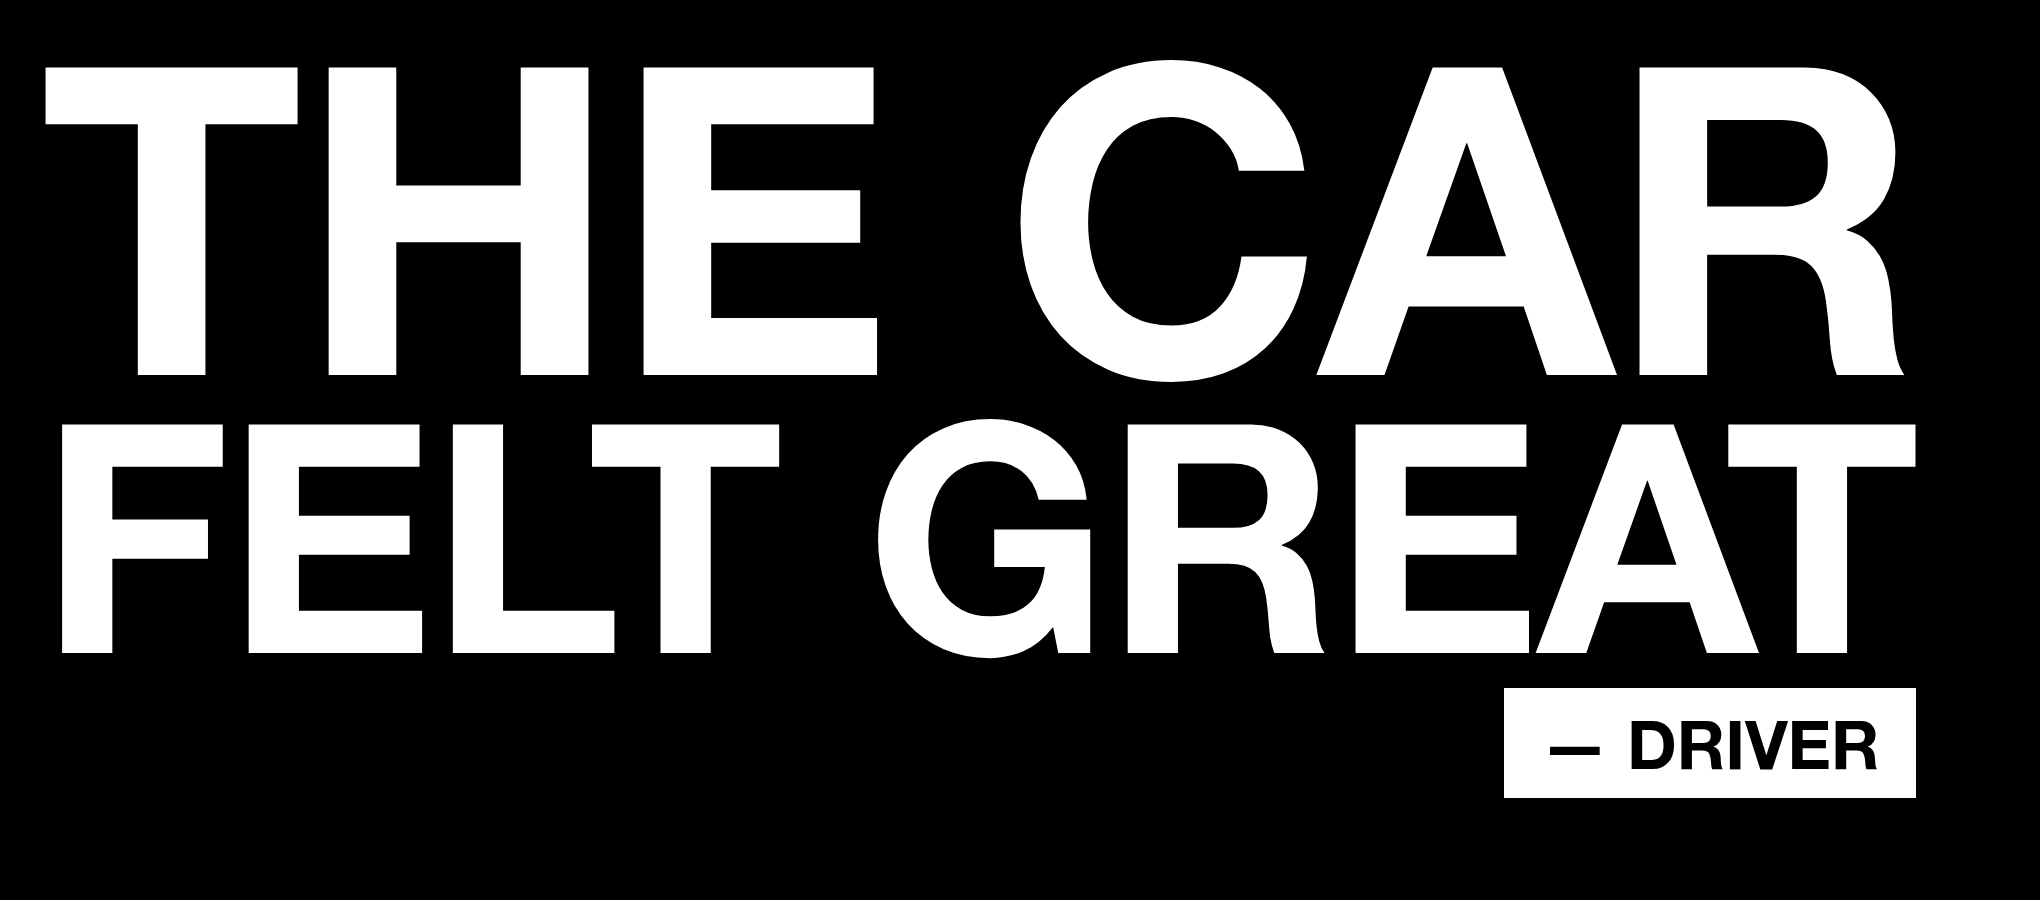
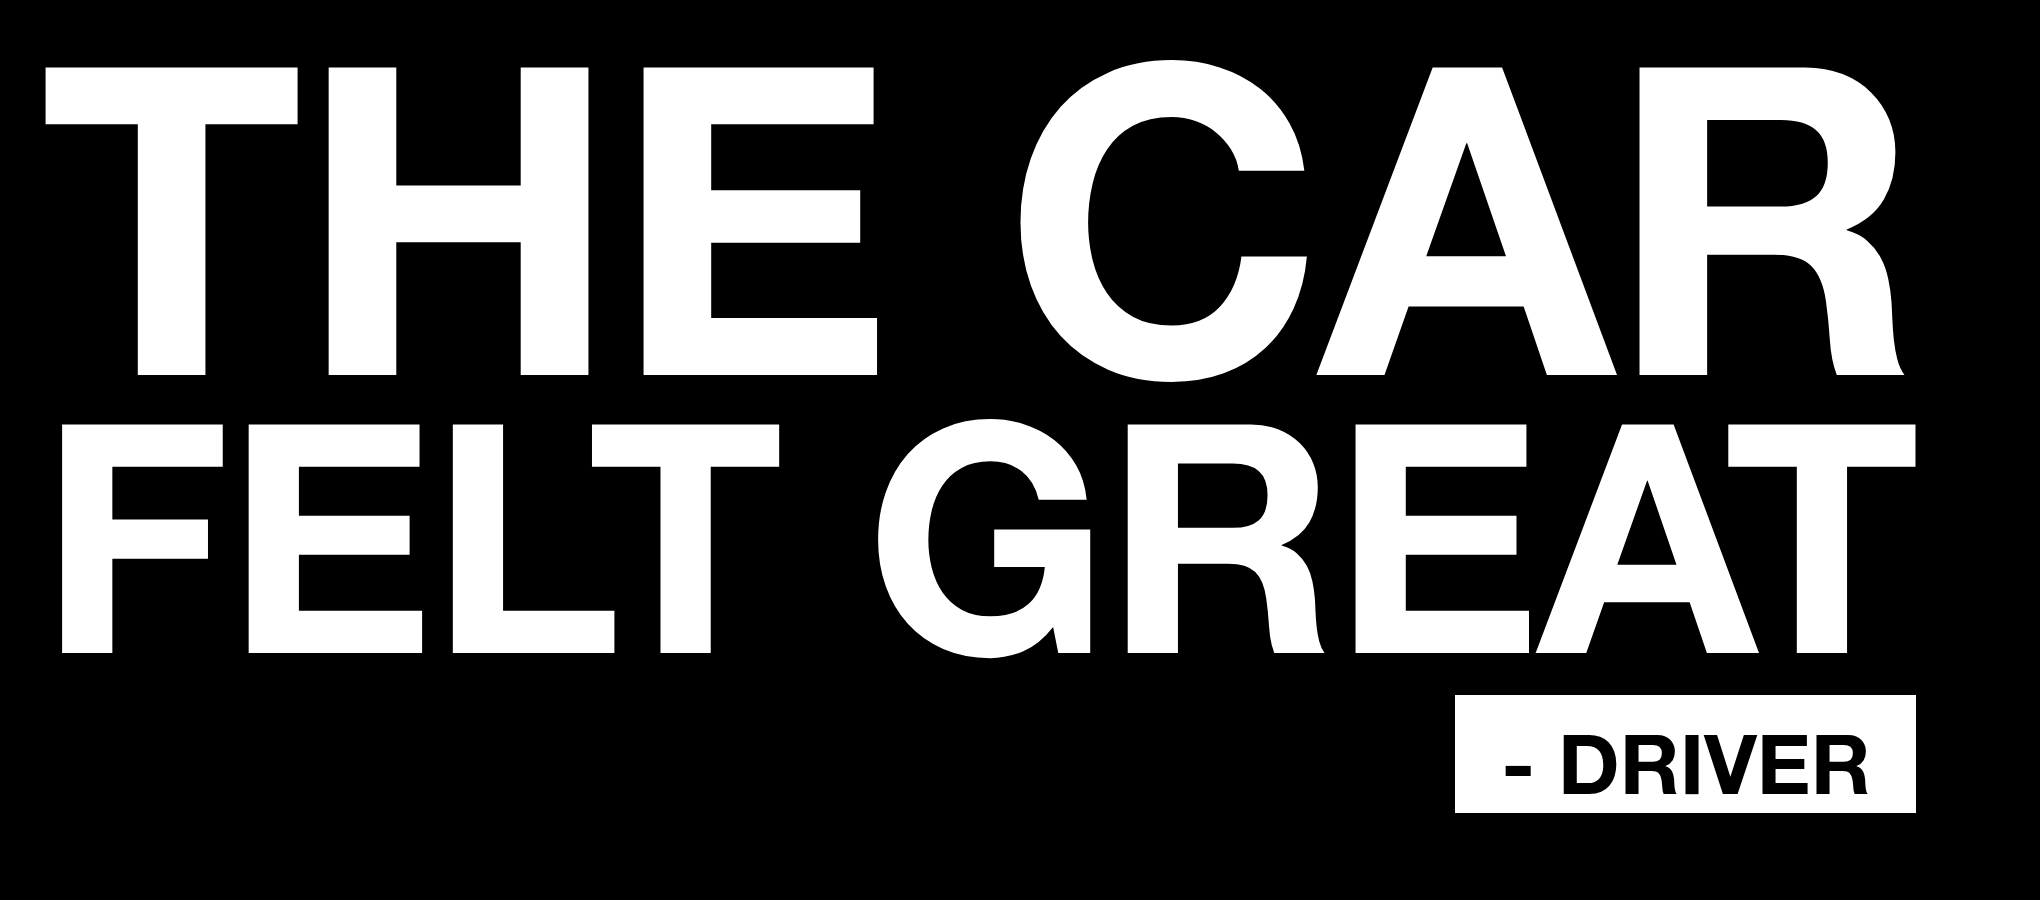
Solve the tee print from a 12in target and assert it at render time
/impeccable critique caught the first pass: both lockup rows measured 387
stage units against a 320-unit container, the print sat 33 units right of
the shirt centreline, and the attribution aligned to the container edge
instead of the ink, so the tee mockup and the print preview disagreed.

The punch line is now sized until its measured ink is 300 units (12in on
the template's 19in chest), the setup line matched to it, and render.mjs
re-reads the geometry from the DOM and fails unless rows, width and centre
are within 1 unit. Print moved up to ~3.75in below the collar rib, the
attribution uses a plain hyphen per the Brains note and the house rule,
and its size floor rose to 0.26 of the punch. Blank drawing: neck opening
shows inside-back fabric, body tapers, sleeve hems curve, knit rides over
the ink. Critique snapshot under .impeccable/critique/.

Claude-Session: https://claude.ai/code/session_019tmHrDHQ6vYCtp1fHTagqX

Changed region(s): [[0.7103, 0.7467, 0.9574, 0.9022]]

diff --git a/packages/merch/car-felt-great/mockup.html b/packages/merch/car-felt-great/mockup.html
@@ -45,16 +45,19 @@
     transform-origin: top left;
   }
   .stage > svg { position: absolute; inset: 0; width: 100%; height: 100%; display: block; }
+  .stage > svg.over-ink { pointer-events: none; }
 
   /* ---- the print ---- */
   /* Chest placement. The shirt body runs 262 -> 738 in stage units at the
-     armpit line, so a 320 unit print is ~67% of the body: a big front print
-     (roughly 12in on a 19in chest), not a chest pocket. */
+     armpit line (476 units, taken as a 19in flat chest, so 25 units/in). The
+     print is sized by fit() to --print-width, 300 units = 12in, the width of a
+     standard full-front platen. Nothing here is hand-picked: the punch size is
+     solved from the target width and the render asserts the result. */
   .art {
     position: absolute;
     left: 500px;
-    top: 335px;
-    width: 320px;
+    top: 262px;                 /* ink top lands ~3.75in below the collar rib (rib bottom y=168, 25 units/in) */
+    width: fit-content;         /* the container IS the ink, so flex-end tracks the text edge */
     transform: translateX(-50%);
     display: flex;
     flex-direction: column;
@@ -72,8 +75,8 @@
   }
   .tier.setup { color: var(--white); }
   .tier.punch { color: var(--accent); margin-top: 0.06em; }
-  .punch { font-size: var(--punch-size); }
-  .setup { font-size: var(--punch-size); } /* overwritten by fit() to match the punch width */
+  .punch { font-size: var(--punch-size); } /* overwritten by fit(): solved from --print-width */
+  .setup { font-size: var(--punch-size); } /* overwritten by fit(): matched to the punch width */
 
   /* attribution = the punchline, small, in the corner-label idiom: a white box on a
      dark ground, all caps, 0.32em 0.55em padding, square corners. Right-anchored,
@@ -84,7 +87,7 @@
     align-items: stretch;
     line-height: 1;
     margin-top: 0.42em;
-    font-size: calc(var(--punch-size) * 0.21);
+    font-size: calc(var(--punch-size) * 0.26); /* small, as briefed, but not below ~12mm caps on a 12in print */
   }
   .attrib .cl-box {
     font-family: "Helvetica Neue", Helvetica, Arial, sans-serif;
@@ -102,6 +105,7 @@
   /* ---- artwork view: just the print, transparent ground ---- */
   body.artwork { background: var(--garment); } /* the print previewed on the garment colour it ships on */
   body.artwork .stage { display: none; }
+  body.artwork .over-ink { display: none; }
   body.artwork .art-only {
     position: absolute; left: 0; top: 0;
     padding: 40px;
@@ -151,23 +155,24 @@
           M392,92
           C 330,100 250,118 195,135
           C 142,198 88,268 48,335
-          L 150,400
+          Q 96,378 150,400
           C 186,378 226,361 262,352
-          C 259,560 252,760 248,940
-          L 752,940
-          C 748,760 741,560 738,352
+          C 262,560 258,760 256,940
+          L 744,940
+          C 742,760 738,560 738,352
           C 774,361 814,378 850,400
-          L 952,335
+          Q 904,378 952,335
           C 912,268 858,198 805,135
           C 750,118 670,100 608,92
           C 585,165 415,165 392,92 Z"/>
       </defs>
 
       <!-- floor shadow -->
-      <path d="M262,360 C259,560 252,760 248,942 L752,942 C748,760 741,560 738,360 Z"
-            fill="#000" opacity="0.28" filter="url(#drop)" transform="translate(0,26)"/>
+      <path d="M262,360 C262,560 258,760 256,942 L744,942 C742,760 738,560 738,360 Z"
+            fill="#000" opacity="0.30" filter="url(#drop)" transform="translate(0,14)"/>
 
-      <!-- back of the collar, seen through the neck hole -->
+      <!-- inside of the back panel, seen through the neck opening, then the back collar rib -->
+      <path d="M392,92 Q500,58 608,92 C585,165 415,165 392,92 Z" fill="#0c0c0c"/>
       <path d="M392,92 Q500,58 608,92 Q500,80 392,92 Z" fill="url(#backcollar)"/>
       <path d="M392,92 Q500,58 608,92" fill="none" stroke="#fff" stroke-width="1" opacity="0.10"/>
 
@@ -178,10 +183,10 @@
         <!-- folds: soft shade in the underarms and down the sides, a lift across the chest -->
         <path d="M262,352 C 300,420 330,560 300,720" stroke="#000" stroke-width="26" fill="none" opacity="0.35" filter="url(#soft)"/>
         <path d="M738,352 C 700,420 670,560 700,720" stroke="#000" stroke-width="26" fill="none" opacity="0.35" filter="url(#soft)"/>
-        <path d="M262,352 C 247,560 252,760 248,940" stroke="#000" stroke-width="40" fill="none" opacity="0.45" filter="url(#soft)"/>
-        <path d="M738,352 C 753,560 748,760 752,940" stroke="#000" stroke-width="40" fill="none" opacity="0.45" filter="url(#soft)"/>
-        <path d="M330,780 C 420,805 560,805 660,780" stroke="#000" stroke-width="10" fill="none" opacity="0.28" filter="url(#soft)"/>
-        <path d="M290,860 C 380,890 640,890 720,860" stroke="#000" stroke-width="12" fill="none" opacity="0.25" filter="url(#soft)"/>
+        <path d="M262,352 C 250,560 254,760 252,940" stroke="#000" stroke-width="40" fill="none" opacity="0.45" filter="url(#soft)"/>
+        <path d="M738,352 C 750,560 746,760 748,940" stroke="#000" stroke-width="40" fill="none" opacity="0.45" filter="url(#soft)"/>
+        <path d="M300,700 C 380,760 470,790 560,880" stroke="#000" stroke-width="10" fill="none" opacity="0.16" filter="url(#soft)"/>
+        <path d="M690,640 C 640,720 600,800 610,900" stroke="#000" stroke-width="12" fill="none" opacity="0.14" filter="url(#soft)"/>
         <path d="M410,150 C 470,190 530,190 590,150" stroke="#fff" stroke-width="20" fill="none" opacity="0.045" filter="url(#soft)"/>
         <!-- sleeve caps catch the light -->
         <path d="M195,135 C 160,180 120,240 90,290" stroke="#fff" stroke-width="10" fill="none" opacity="0.06" filter="url(#soft2)"/>
@@ -195,16 +200,16 @@
       <g fill="none" stroke="#000" stroke-width="1.6" opacity="0.55">
         <path d="M195,135 C 215,220 240,300 262,352"/>
         <path d="M805,135 C 785,220 760,300 738,352"/>
-        <path d="M62,347 L 160,410"/>
-        <path d="M938,347 L 840,410"/>
-        <path d="M248,922 L 752,922"/>
+        <path d="M62,345 Q 108,386 160,408"/>
+        <path d="M938,345 Q 892,386 840,408"/>
+        <path d="M256,922 L 744,922"/>
       </g>
       <g fill="none" stroke="#fff" stroke-width="1" opacity="0.07">
         <path d="M197,138 C 217,222 242,302 264,354"/>
         <path d="M803,138 C 783,222 758,302 736,354"/>
-        <path d="M64,350 L 162,413"/>
-        <path d="M936,350 L 838,413"/>
-        <path d="M248,925 L 752,925"/>
+        <path d="M64,348 Q 110,389 162,411"/>
+        <path d="M936,348 Q 890,389 838,411"/>
+        <path d="M256,925 L 744,925"/>
       </g>
       </g>
 
@@ -217,8 +222,15 @@
     <div class="art" id="art">
       <div class="tier setup" id="setup"><span>The car</span></div>
       <div class="tier punch" id="punch"><span>Felt great</span></div>
-      <div class="attrib"><span class="cl-box">— Driver</span></div>
+      <div class="attrib"><span class="cl-box">- Driver</span></div>
     </div>
+
+    <!-- knit over the ink: screen-printed plastisol still shows the weave -->
+    <svg class="over-ink" viewBox="0 0 1000 1200" xmlns="http://www.w3.org/2000/svg" aria-hidden="true">
+      <g clip-path="url(#shirtClip)" style="mix-blend-mode: multiply">
+        <rect x="0" y="0" width="1000" height="1200" filter="url(#knit)" opacity="0.55"/>
+      </g>
+    </svg>
   </div>
 
   <div class="art-only" id="artOnly"></div>
@@ -255,22 +267,39 @@
     stage.style.transform = `translate(${q.get('x') || 0}px, ${q.get('y') || 0}px) scale(${scale})`;
   }
 
-  // Width match: size the setup line so its rendered width equals the punch
-  // line's (HANDOFF §Hero text: "first row = second row", measured on the text,
-  // not the container). Two passes, because letter-spacing rounds.
+  // Fit, measured on the text and never on the container (HANDOFF §Hero text):
+  //  1. size the punch line so its rendered width is --print-width (stage units
+  //     in the mockup view; in the artwork view the punch size is the input),
+  //  2. size the setup line so its rendered width equals the punch line's
+  //     ("first row = second row"),
+  //  3. record ink width and centre so render.mjs can assert them. A print
+  //     that silently overflows exits 0 just like an over-long lower third
+  //     (CLAUDE.md), so the check lives outside the page.
+  // Widths are read from the spans' rects, which include the page transform,
+  // so they are divided back out by `scale` to get stage units.
+  const printWidth = Number(q.get("print") || 300);
+  const px = (el) => el.firstElementChild.getBoundingClientRect().width / (view === "artwork" ? 1 : scale);
+  function solve(el, target) {
+    let size = parseFloat(getComputedStyle(el).fontSize);
+    for (let i = 0; i < 4; i++) {           // converge: letter-spacing and hinting round
+      el.style.fontSize = size + "px";
+      size = size * (target / px(el));
+    }
+    el.style.fontSize = size + "px";
+    return size;
+  }
   function fit() {
     const setup = document.getElementById("setup");
     const punch = document.getElementById("punch");
-    const wP = punch.firstElementChild.getBoundingClientRect().width;
-    let size = parseFloat(getComputedStyle(punch).fontSize);
-    for (let i = 0; i < 3; i++) {
-      setup.style.fontSize = size + "px";
-      const wS = setup.firstElementChild.getBoundingClientRect().width;
-      size = size * (wP / wS);
-    }
-    setup.style.fontSize = size + "px";
-    const wS = setup.firstElementChild.getBoundingClientRect().width;
-    document.body.dataset.fit = JSON.stringify({ wP, wS, setupPx: size, punchPx: parseFloat(getComputedStyle(punch).fontSize) });
+    let punchPx = parseFloat(getComputedStyle(punch).fontSize);
+    if (view !== "artwork") punchPx = solve(punch, printWidth);
+    const setupPx = solve(setup, px(punch));
+    const wP = px(punch), wS = px(setup);
+    const stage = document.getElementById("stage").getBoundingClientRect();
+    const ink = punch.firstElementChild.getBoundingClientRect();
+    const inkCentre = view === "artwork" ? null : (ink.left + ink.width / 2 - stage.left) / scale;
+    const inkTop = view === "artwork" ? null : (setup.firstElementChild.getBoundingClientRect().top - stage.top) / scale;
+    document.body.dataset.fit = JSON.stringify({ view, printWidth, wP, wS, setupPx, punchPx, inkCentre, inkTop });
     document.body.dataset.ready = "1";
   }
   document.fonts.ready.then(fit);

diff --git a/.impeccable/critique/2026-09-09T17-52-34Z__packages-merch-car-felt-great-mockup-html.md b/.impeccable/critique/2026-09-09T17-52-34Z__packages-merch-car-felt-great-mockup-html.md
@@ -1,0 +1,77 @@
+---
+target: packages/merch/car-felt-great/mockup.html
+total_score: 14
+max_score: 20
+na_heuristics: 1,3,7,9,10
+p0_count: 1
+p1_count: 2
+timestamp: 2026-09-09T17-52-34Z
+slug: packages-merch-car-felt-great-mockup-html
+---
+Method: dual-agent (A: design review sub-agent · B: detector/browser-evidence sub-agent)
+
+Target: `packages/merch/car-felt-great/mockup.html` (rendered to `out/tee-two-tone.png`, `out/tee-mono.png`, `out/print-*.png`). Mode: Persuade (an apparel graphic).
+
+## Design Health Score
+
+| # | Heuristic | Score | Key Issue |
+|---|---|---|---|
+| 1 | Visibility of System Status | n/a | static graphic, no state |
+| 2 | Match System / Real World | 4 | verbatim paddock cliché; boxed attribution mirrors the channel's real lower third |
+| 3 | User Control and Freedom | n/a | nothing to undo |
+| 4 | Consistency and Standards | 2 | tee mockup and print file laid the attribution out differently (fixed this run); hero weight 700 vs the guide's unshipped 900 |
+| 5 | Error Prevention | 2 | print width and centre were hand-picked and unasserted; text overflowed its container silently (fixed this run) |
+| 6 | Recognition Rather Than Recall | 3 | joke needs recall of a cliché non-racers may not know; no maker's mark to recognise |
+| 7 | Flexibility and Efficiency | n/a | no wearer interaction |
+| 8 | Aesthetic and Minimalist Design | 3 | nothing superfluous; off-centre lockup and a clip-art neck opening cost a point (both fixed this run) |
+| 9 | Error Recovery | n/a | no errors to recover from |
+| 10 | Help and Documentation | n/a | no user-facing help applies |
+| **Total** | | **14/20** | **Good (70%)** |
+
+## Design Specificity Verdict
+
+**LLM assessment:** Apex-conformant, not yet OIO-authored. Every brand rule is executed: one heavy wide Helvetica Bold face split by colour, widths matched to the pixel, one accent, square corners, caps, never italic, shipped font only. It is recognisably the "SLEEPER / DRAG WAGON" thumbnail lockup on cotton. But nothing on the garment says OIO: no circle, no wordmark, no sleeve or back-neck mark, and white-over-yellow Helvetica on black is a common commercial look. The one authored moment is the attribution as a corner-label box, a lower third for the one person who never gets one, and it is the smallest thing on the shirt.
+
+**Deterministic scan:** `detect.mjs` clean on both the template and the filled copy (0 findings, exit 0). With `--no-config` the only rule that fires is `overused-font` on the five Helvetica declarations, which `.impeccable/config.json` registers as the confirmed brand exception. Every colour literal in the file is inside the SVG shirt drawing (fabric shading); all brand chrome reads token custom properties set at runtime. No border-radius, no italic, `lang` set, SVG has an accessible name.
+
+**Visual overlays:** none. No mutable-DOM browser tool in this session, so the live overlay flow was not run; evidence came from headless Chromium `--dump-dom` measurements and screenshots.
+
+## Overall Impression
+
+Big, confident and correct; the irony lands when the viewer reaches the box. The single biggest opportunity was the geometry: the lockup measured 387 stage units against a 320-unit container and sat 33 units right of the shirt centreline, with the attribution aligned to the container rather than the ink. That has been fixed and is now asserted at render time.
+
+## What's Working
+
+- The lockup is measured, not eyeballed: both rows land at 300.1 units, centre at 500.0, and the render fails if they do not.
+- The attribution as a corner-label box is the OIO-specific idea and it carries the punchline.
+- Production discipline: tokens and font paths injected at render time, missing brand face fails the build, caps and never-italic enforced in CSS, a real single-ink variant.
+
+## Priority Issues
+
+- **[P0] Print overflowed its container, off-centre, attribution on the wrong edge.** Fixed: container is `fit-content`, punch size is solved from a 300-unit (12in) target, render asserts width and centre within 1 unit.
+- **[P1] Print sat at the armpit line.** Fixed: ink top now ~3.75in below the collar rib.
+- **[P1] Blank read as clip-art.** Partly fixed: neck opening now shows inside-back fabric, body tapers instead of flaring, sleeve hems curve, shadow sits under the shirt, knit multiplied over the ink. Still a drawing; compositing onto a photographed blank is the next step. Suggested command: /impeccable polish.
+- **[P2] The shirt is unsigned.** Open, Ian's call: a small solid circle wordmark at back neck or sleeve per DESIGN.md §The circle, keeping the front type-only.
+- **[P2] Punchline dies past arm's length and in feed-size images.** Attribution floor raised from 0.21 to 0.26 of the punch size; treat the print crop, not the tee, as the first frame of any post.
+- **[P3] Em dash inside the box.** Changed to a plain hyphen, matching the Brains note and the house rule against em dashes.
+
+## Persona Red Flags
+
+- **Jordan (first-timer):** reads a proud slogan until within ~2m; the box can read as a size sticker in a product shot.
+- **Casey (distracted mobile):** at feed size the attribution is a few pixels; the joke is absent from the full-tee image.
+- **Riley (stress tester):** `?punch=80` or a longer quote now fails the render instead of overflowing silently; a light-garment variant is still impossible because the box only reads `cornerLabel.onDark`.
+- **Grassroots racer:** gets it instantly, then finds nothing on the shirt saying whose it is.
+- **Prospective sponsor:** nothing for them here; PRODUCT.md still records merch as undecided.
+
+## Minor Observations
+
+- `.tier` borrows `letter-spacing: -0.01em` from the guide's `.hero-line.wide`, which specifies weight 900; only 700 ships, so 700 is right and the guide's spec is the unbuildable one.
+- `print-*.png` are previews on the garment black, not print-ready files; the transparent export is a one-flag change.
+- Helvetica Neue 400 is declared and unused.
+- `neutral.gray100` is the first light surface in the repo; it is a mockup ground, not a brand surface, and the README says so.
+
+## Questions to Consider
+
+- Why Spark? The line is the struggle beat dressed as a payoff. Is the earnest victory-yellow the joke, or should the punch be Grit?
+- A lone boxed part is the case the corner-label rule says to skip. Is there a true two-part label (plain fact + boxed name) that holds for every driver?
+- What is this mockup for: proving the joke (needs a photographed blank) or proving Apex survives a garment (needs neck label, sleeve mark, hang tag)?

diff --git a/packages/merch/README.md b/packages/merch/README.md
@@ -12,6 +12,10 @@ car-felt-great/
   mockup.html   template: SVG black tee + the print as HTML, tokens/fonts as slots
   render.mjs    fills the slots from packages/tokens and screenshots with Chromium
   out/          rendered PNGs (committed, so the mockup is reviewable without a render)
+
+The render measures what it drew: both rows of the lockup must land within 1
+unit of each other and of the 300-unit (12in) target, centred on the shirt, or
+`render.mjs` exits non-zero. A print that overflows never gets a green exit.
 ```
 
 ```
